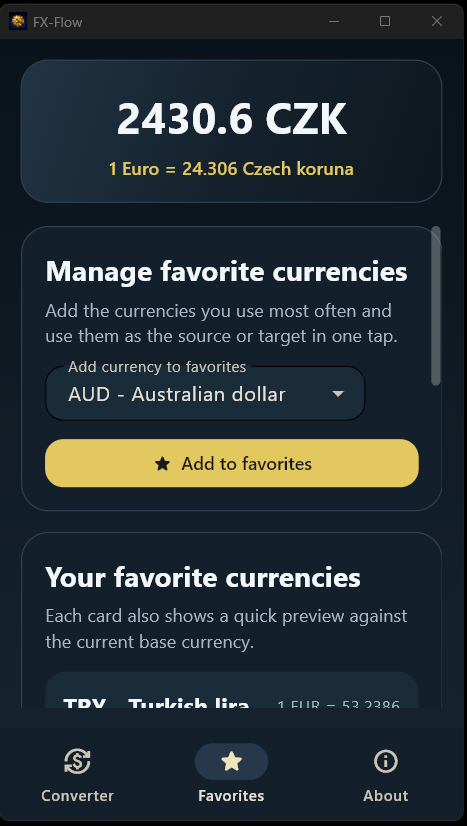
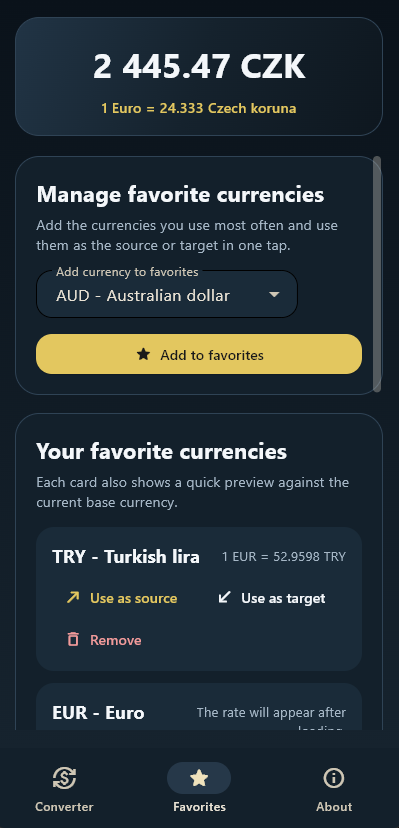
FX-FLOW v1.4.2: small bug fixes; added remove value via X button within input; changed locales text for value input empty condition

diff --git a/fx_app.py b/fx_app.py
@@ -201,9 +201,24 @@ class FXFlowApp:
         converter_options = [
             self._currency_code_option(code) for code in self._converter_currencies()
         ]
+        amount_value = self._grouped_amount_value(self.preferences.last_amount)
+        self.clear_amount_button = ft.IconButton(
+            icon=ft.Icons.CLOSE_ROUNDED,
+            icon_color=MUTED,
+            icon_size=18,
+            tooltip=self.t("converter.clear_amount"),
+            width=36,
+            height=36,
+            style=ft.ButtonStyle(
+                shape=ft.RoundedRectangleBorder(radius=999),
+                padding=ft.Padding.all(4),
+            ),
+            visible=bool(amount_value.strip()),
+            on_click=self._on_clear_amount,
+        )
         self.amount_input = ft.TextField(
             label=self.t("converter.amount"),
-            value=self._grouped_amount_value(self.preferences.last_amount),
+            value=amount_value,
             hint_text=self.t("converter.amount_hint"),
             keyboard_type=ft.KeyboardType.NUMBER,
             border_radius=16,
@@ -211,6 +226,7 @@ class FXFlowApp:
             fill_color=SURFACE_ALT,
             text_style=ft.TextStyle(size=18, weight=ft.FontWeight.W_600),
             content_padding=ft.Padding.symmetric(horizontal=18, vertical=18),
+            suffix=self.clear_amount_button,
             on_change=self._on_amount_change,
             on_submit=self._on_calculate,
             on_blur=self._on_amount_blur,
@@ -883,7 +899,10 @@ class FXFlowApp:
         formatted_value = self._grouped_amount_value(raw_value)
         self.preferences.last_amount = formatted_value
         self._save_preferences()
+        clear_button_changed = self._update_clear_amount_button()
         if formatted_value == raw_value:
+            if clear_button_changed:
+                self.clear_amount_button.update()
             return
         caret = self._mapped_amount_caret(raw_value, formatted_value)
         self._formatting_amount_input = True
@@ -894,6 +913,15 @@ class FXFlowApp:
             self.amount_input.update()
         finally:
             self._formatting_amount_input = False
+
+    def _update_clear_amount_button(self) -> bool:
+        if not hasattr(self, "clear_amount_button"):
+            return False
+        is_visible = bool((self.amount_input.value or "").strip())
+        if self.clear_amount_button.visible == is_visible:
+            return False
+        self.clear_amount_button.visible = is_visible
+        return True
 
     def _mapped_amount_caret(self, raw_value: str, formatted_value: str) -> int | None:
         selection = self.amount_input.selection
@@ -1021,6 +1049,13 @@ class FXFlowApp:
 
     def _on_amount_blur(self, _: ft.ControlEvent) -> None:
         self._format_amount_input()
+        self._recalculate()
+        self.page.update()
+
+    def _on_clear_amount(self, _: ft.ControlEvent) -> None:
+        self.amount_input.value = ""
+        self.preferences.last_amount = ""
+        self._update_clear_amount_button()
         self._recalculate()
         self.page.update()
 

diff --git a/fx_core.py b/fx_core.py
@@ -10,7 +10,7 @@ from urllib.parse import urlencode, urlparse
 from urllib.request import Request, urlopen
 
 APP_NAME = "FX-Flow"
-APP_VERSION = "1.4"
+APP_VERSION = "1.4.2"
 AUTHOR = "Igor Vitovský"
 GITHUB = "github.com/igvisk"
 

diff --git a/README.md b/README.md
@@ -1,6 +1,6 @@
 # FX-Flow
 
-FX-Flow is a compact Flet currency converter built for quick everyday conversions, favorite-currency workflows, and graceful behavior when fresh network data is unavailable. The active app version in the codebase is `1.4`.
+FX-Flow is a compact Flet currency converter built for quick everyday conversions, favorite-currency workflows, and graceful behavior when fresh network data is unavailable. The active app version in the codebase is `1.4.2`.
 
 The current Python entrypoint is `fx_app.py`. Shared conversion, rate, cache, preference, and localization logic lives in `fx_core.py`.
 
@@ -88,7 +88,7 @@ Creating a fresh environment:
 ```powershell
 py -3.13 -m venv .venv
 .\.venv\Scripts\python.exe -m pip install --upgrade pip
-.\.venv\Scripts\python.exe -m pip install -r requirements.txt
+.\.venv\Scripts\python.exe -m pip install flet==0.84.0 flet-cli==0.84.0 flet-desktop==0.84.0
 .\.venv\Scripts\python.exe .\fx_app.py
 ```
 
@@ -101,8 +101,8 @@ Android packaging is documented in `APK_BUILD_NOTES.txt`. The current notes targ
 - module name: `fx_app`
 - project name: `fxflow`
 - package / application ID: `com.igvisk.fxflow`
-- build version: `1.4`
-- build number: `5`
+- build version: `1.4.2`
+- build number: `6`
 
 Expected APK output after a successful build:
 
